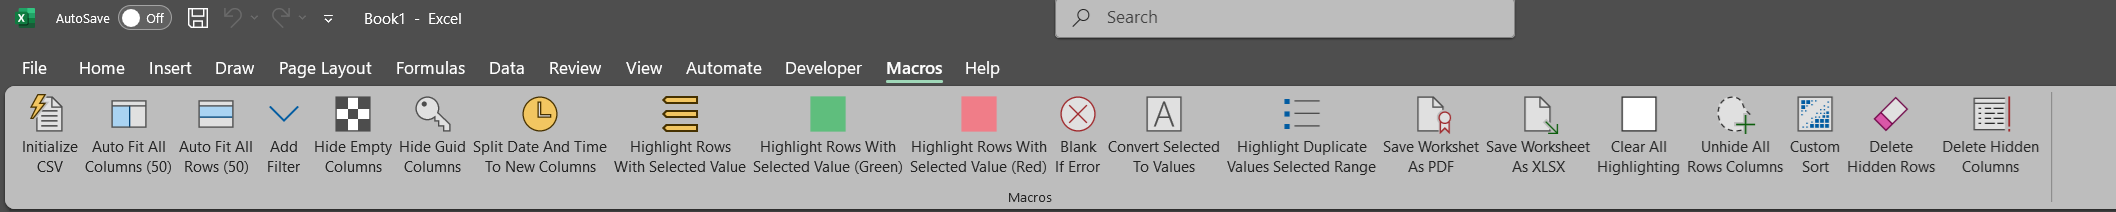
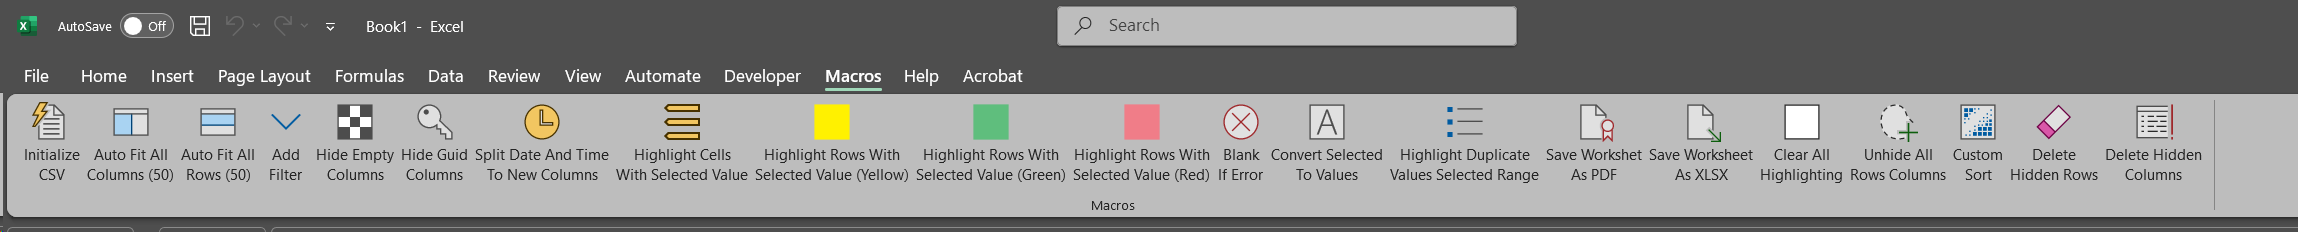
Added cell highlight function

diff --git a/README.md b/README.md
@@ -10,7 +10,7 @@ https://github.com/bitpusher2k
 
 # ExcelMacros.vba - By Bitpusher/The Digital Fox
 
-## v1.1 last updated 2024-05-04
+## v1.5 last updated 2025-06-22
 
 ## Simple Excel macro set.
 
@@ -65,6 +65,7 @@ If PERSONAL.XLSB cannot be loaded from default location a custom location can be
 * HideEmptyColumns - Hides all columns with data only in the first row (which is assumed to be the header row).
 * HideGuidColumns - Hide all columns with a GUID in the second row (the first is assumed to be the header). Be sure to enable "Microsoft VBScript Regular Expression 5.5" under "Tools" > "References..." for this to work.
 * SplitDateAndTimeToNewColumns - If a column containing *date* *space* *time* is selected: creates two new columns to the right, copies *date* into the first, and copies *time* into the second.
+* HighlightCellsWithSelectedValue - Highlights all cells which contains the value in the currently selected cell. Can then use filter by color to limit view to highlighted entries.
 * HighlightRowsWithSelectedValue - Highlights all lines that have a cell which contains the value in the currently selected cell. Can then use filter by color to limit view to highlighted entries. Separate macros for yellow/green/red highlighting included.
 * BlankIfError - Surround formulas in all selected cells with =IFERROR(,"").
 * ConvertSelectedToValues - Converts formulas in selected cells to values.
@@ -73,5 +74,8 @@ If PERSONAL.XLSB cannot be loaded from default location a custom location can be
 * SaveWorksheetAsXLSX - Saves current worksheet as XLSX with same path & filename as open file. Handy when processing CSV files - faster than pressing F12 > clicking Drop-down menu > clicking XLSX > clicking Save.
 * ClearAllHighlighting - Clears all highlighting in the worksheet (reverts changes made by the "HighlightRowsWithSelectedValue" and "HighlightDuplicateValuesSelected" macros).
 * UnhideAllRowsColumns - Un-hides all rows and columns (reverts changes made by the "HideEmptyColumns" and "HideGuidColumns" macros).
+* CustomSort - Brings up the custom sort dialog (saves a couple clicks).
+* DeleteHiddenRows - Deletes all currently hidden rows.
+* DeleteHiddenColumns - Deletes all currently hidden columns.
 
-Would like to create version of macro set that works with LibreOffice at some point, but that will require some work.
+Would like to create version of macro set that works with LibreOffice at some point, but that will require some research & conversion of functions.
